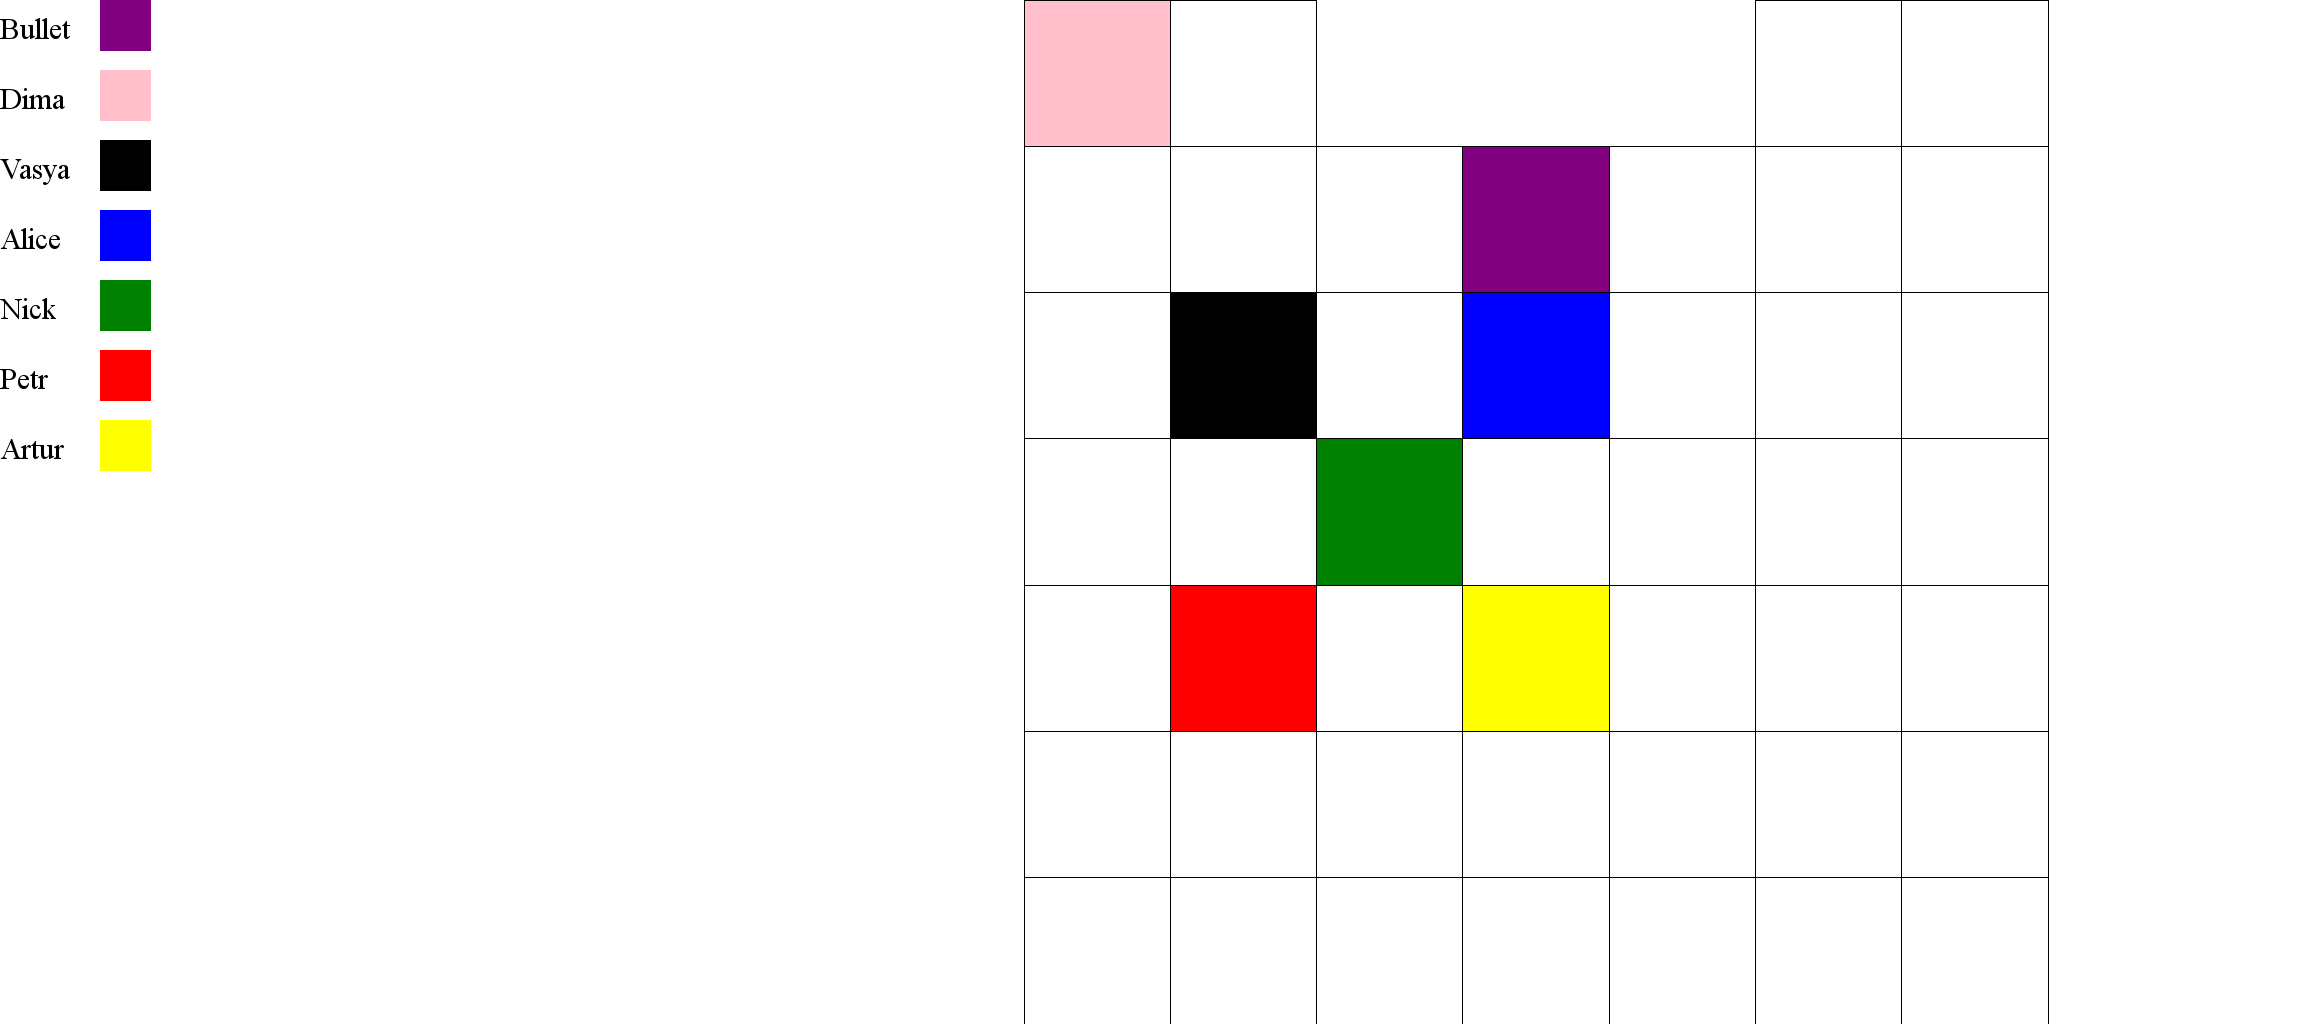
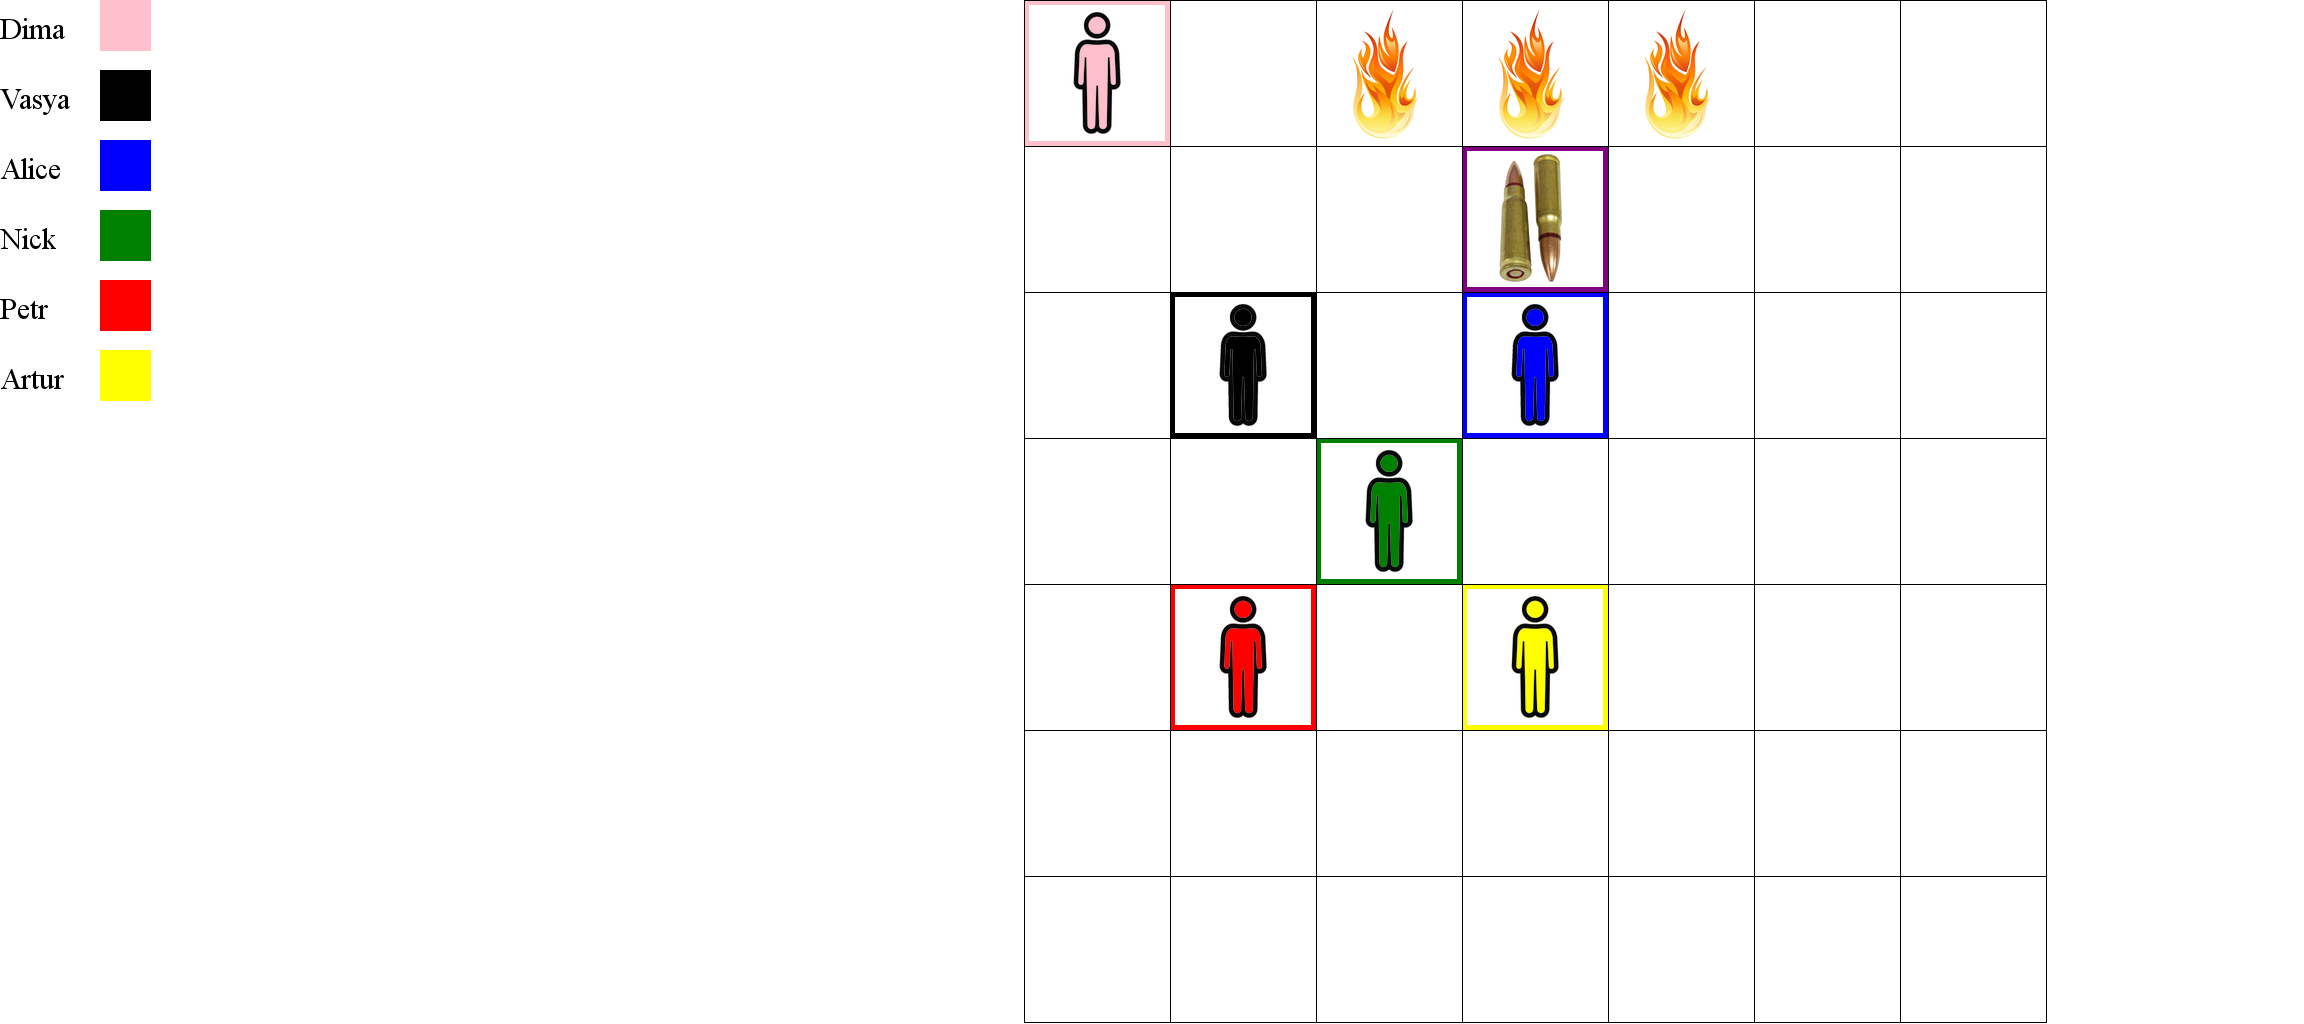
Add beauty

Changed region(s): [[0.5, 0.0312, 0.75, 0.7188], [0.0, 0.0, 0.0625, 0.4688], [0.4375, 0.0, 0.5312, 0.1562]]

diff --git a/games/pepelac/painter.py b/games/pepelac/painter.py
@@ -10,6 +10,13 @@ SMALL_SIDE = 50
 MARGIN = 20
 
 
+def image_resize(path, output_weight):
+    image = Image.open(path)
+    if image.mode not in ('L', 'RGB', 'RGBA'):
+        image = image.convert('RGB')
+    return image.resize((output_weight, output_weight), Image.ANTIALIAS)
+
+
 class Painter:
     _is_initialized = False
 
@@ -38,9 +45,9 @@ class Painter:
         Paints the state of the game;
         Returns the string --- bits of the jpeg image.
         '''
-        image = Image.new('RGB',
+        image = Image.new('RGBA',
                           (FRAME_SIDE + FREE_SIDE + RIGHT_MARGIN, FRAME_SIDE),
-                          (255, 255, 255)
+                          'white'
                           )
         if not self._is_initialized:
             self._initialize(jury_state)
@@ -49,8 +56,11 @@ class Painter:
         Start drawing field
         '''
         colors = ['', 'black', 'yellow', 'green', 'pink', 'red', 'blue']
-        self.draw_on_the_left(0, 'Bullet', 'purple', image)
-        players_count = 1
+        players_count = 0
+
+        fire_ico = image_resize('fire.jpg', self._cell_side - 10)
+        patron_ico = image_resize('patron.jpg', self._cell_side - 10)
+        player_ico = image_resize('player.png', self._cell_side - 10)
 
         for i, row in enumerate(jury_state.field):
             for j, cell in enumerate(row):
@@ -58,17 +68,18 @@ class Painter:
                 y = j * self._cell_side + FREE_SIDE
                 rectangle = (y, x, y + self._cell_side, x + self._cell_side)
 
-                if cell == -2:
-                    continue
-
                 draw = ImageDraw.Draw(image)
 
-                if cell == -1:
+                if cell == -2:
+                    draw.rectangle(rectangle, outline='black')
+                    image.paste(fire_ico, (y + 5, x + 5))
+                elif cell == -1:
                     draw.rectangle(rectangle, fill='purple', outline='black')
+                    image.paste(patron_ico, (y + 5, x + 5))
                 elif cell == 0:
                     draw.rectangle(rectangle, outline='black')
                 else:
-                    name = jury_state.players[players_count - 1].author_name
+                    name = jury_state.players[players_count].author_name
                     self.draw_on_the_left(players_count,
                                           name,
                                           colors[cell], image
@@ -78,6 +89,7 @@ class Painter:
                                    outline='black'
                                    )
                     players_count += 1
+                    image.paste(player_ico, (y + 5, x + 5), player_ico)
 
                 del draw
 
@@ -86,11 +98,13 @@ class Painter:
         '''
 
         #image.save("test-1.png", "PNG") #if you want to see picture
+        #image.show()
         bytes = BytesIO()
         image.save(bytes, format='png')
         return bytes.getvalue()
 
-'''painter = Painter()
+'''
+painter = Painter()
 side = 7
 field = [[0 for i in range(side)] for j in range(side)]
 field[0][2] = -2
